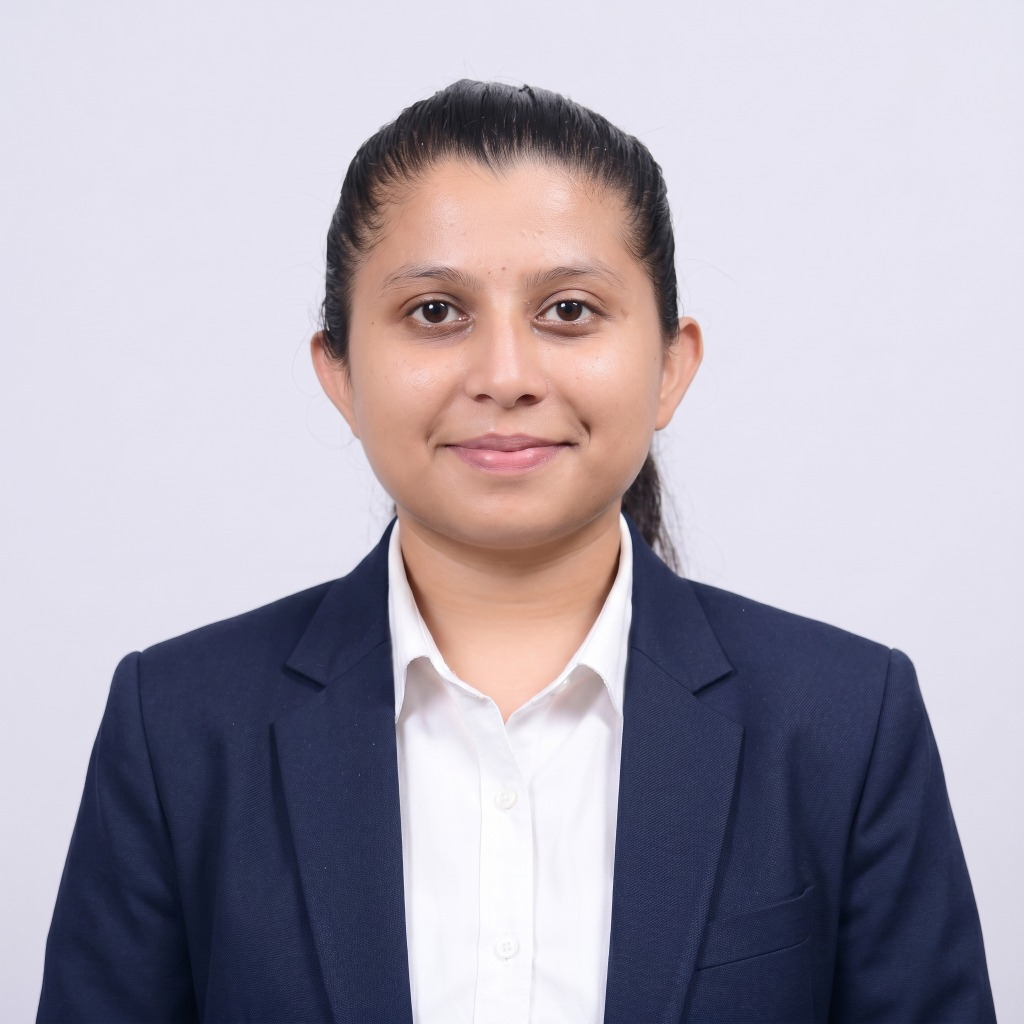
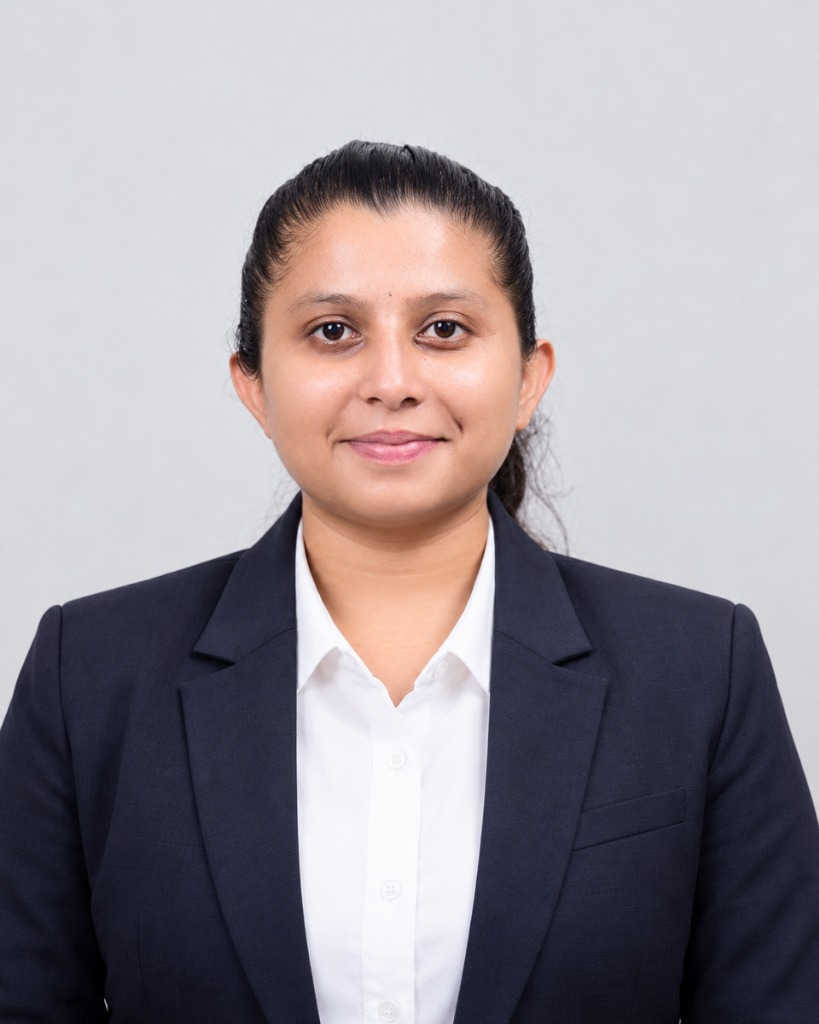
feat: add professional headshot photo to hero portrait

diff --git a/src/components/Portfolio.jsx b/src/components/Portfolio.jsx
@@ -592,12 +592,12 @@ export default function Portfolio() {
                     }}
                   >
                     <img
-                      src="/images/headshots/varuna-headshot-professional-dark.webp"
+                      src="/images/headshots/varuna-headshot-professional-dark.jpg"
                       alt="Varuna Nikam - Shopify and Frontend Developer based in Nashik, Maharashtra"
                       loading="eager"
                       onError={(e) => {
                         e.currentTarget.onerror = null;
-                        e.currentTarget.src = "/images/headshots/varuna-headshot-professional-dark.png";
+                        e.currentTarget.src = "/images/headshots/varuna-headshot-professional-dark.jpg";
                       }}
                       style={{
                         width: '100%',
